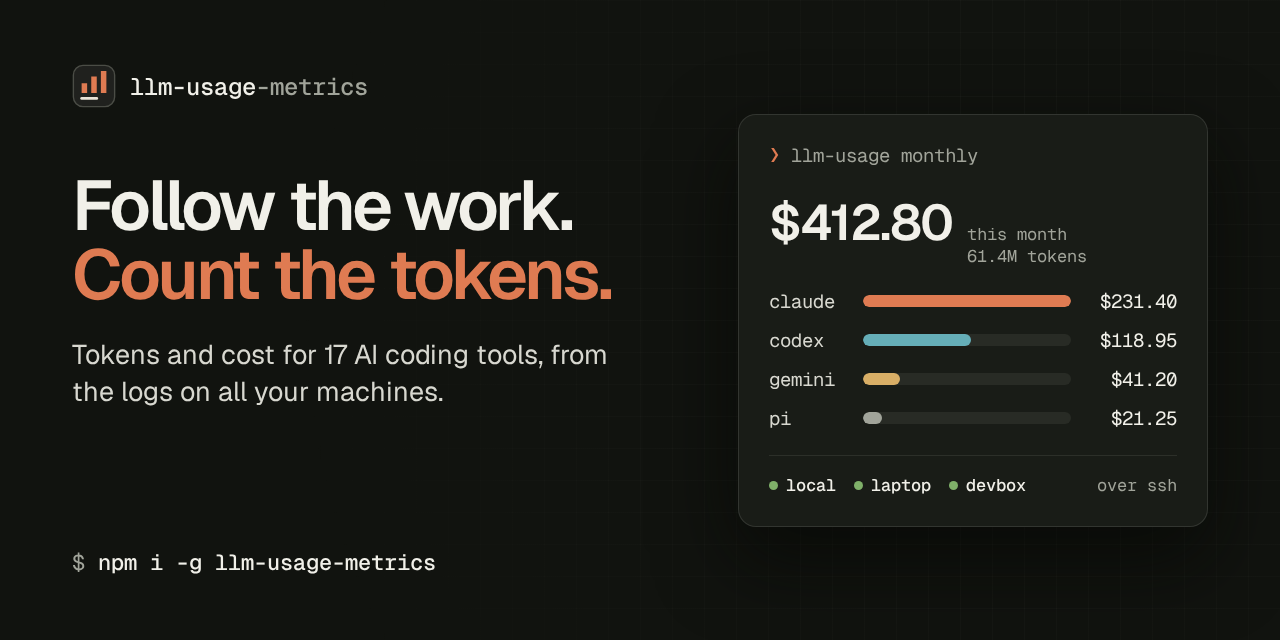
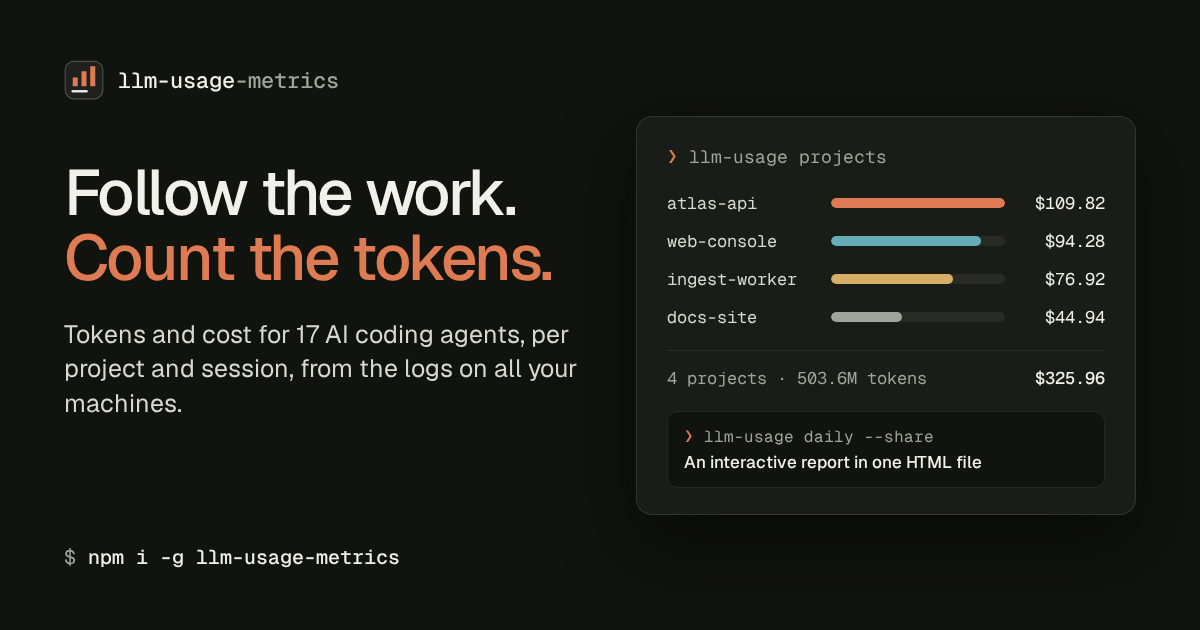
build(site): render og.png at 1200x630 from the social preview script
site/scripts/social-preview.mjs reads the source count from the built CLI's --help and screenshots the preview page with the shared Chromium launcher. Removes the unused site/public/screenshot.png.

diff --git a/site/social-preview/social-preview.html b/site/social-preview/social-preview.html
@@ -1,11 +1,12 @@
 <!doctype html>
-<!-- Source of site/public/og.png (1280x640, also the GitHub social preview). Render with any headless Chromium:
-     chrome --headless --window-size=1280,640 --screenshot=../public/og.png social-preview.html -->
+<!-- Source of site/public/og.png (1200x630, also the GitHub social preview). Render it with
+     `pnpm run build && node site/scripts/social-preview.mjs`, which fills in the source count
+     from the CLI. The numbers on the card come from the docs demo data, not from real usage. -->
 <html>
   <head>
     <meta charset="utf-8" />
     <link
-      href="https://fonts.googleapis.com/css2?family=Geist:wght@400;500;600;700&family=Geist+Mono:wght@400;500&display=swap"
+      href="https://fonts.googleapis.com/css2?family=Geist:wght@400;500;600&family=Geist+Mono:wght@400;500&display=swap"
       rel="stylesheet"
     />
     <style>
@@ -16,74 +17,61 @@
       }
       html,
       body {
-        width: 1280px;
-        height: 640px;
+        width: 1200px;
+        height: 630px;
       }
       body {
         background: #11130f;
         color: #f1f0e9;
         font-family: Geist, sans-serif;
         display: grid;
-        grid-template-columns: 1fr 470px;
-        gap: 48px;
-        padding: 64px 72px;
-        position: relative;
+        grid-template-columns: 1fr 500px;
+        gap: 44px;
+        padding: 60px 64px;
         overflow: hidden;
-      }
-      body::before {
-        content: '';
-        position: absolute;
-        inset: 0;
-        background-image:
-          linear-gradient(rgba(241, 240, 233, 0.035) 1px, transparent 1px),
-          linear-gradient(90deg, rgba(241, 240, 233, 0.035) 1px, transparent 1px);
-        background-size: 32px 32px;
-        mask-image: radial-gradient(circle at 78% 50%, black, transparent 70%);
       }
       .copy {
         display: flex;
         flex-direction: column;
-        position: relative;
       }
       .brand {
         display: flex;
         align-items: center;
         gap: 14px;
-        font-family: 'Geist Mono';
-        font-size: 24px;
+        font-family: 'Geist Mono', monospace;
+        font-size: 22px;
         font-weight: 500;
       }
       .brand img {
-        width: 44px;
-        height: 44px;
+        width: 40px;
+        height: 40px;
       }
       .brand span {
         color: #a1a49a;
       }
       h1 {
-        margin-top: 64px;
-        font-size: 70px;
-        line-height: 0.98;
-        white-space: nowrap;
-        letter-spacing: -0.045em;
-        font-weight: 600;
+        margin-top: 60px;
+        font-size: 64px;
+        line-height: 1.02;
+        letter-spacing: -0.04em;
+        font-weight: 500;
       }
       h1 em {
         font-style: normal;
         color: #df7b52;
         display: block;
       }
-      p.sub {
-        margin-top: 28px;
-        font-size: 27px;
-        line-height: 1.35;
+      .sub {
+        margin-top: 26px;
+        font-size: 25px;
+        line-height: 1.38;
         color: #d8d8d0;
-        max-width: 560px;
+        max-width: 540px;
       }
       .install {
         margin-top: auto;
-        font-family: 'Geist Mono';
-        font-size: 22px;
+        font-family: 'Geist Mono', monospace;
+        font-size: 20px;
         color: #a1a49a;
       }
       .install b {
@@ -91,65 +79,47 @@
         font-weight: 500;
       }
       .card {
-        position: relative;
         align-self: center;
         background: #191c17;
         border: 1px solid rgba(241, 240, 233, 0.12);
-        border-radius: 18px;
-        padding: 28px 30px 30px;
-        font-family: 'Geist Mono';
-        box-shadow: 0 30px 80px rgba(5, 7, 4, 0.7);
+        border-radius: 16px;
+        padding: 28px 30px 26px;
+        font-family: 'Geist Mono', monospace;
+        box-shadow: 0 28px 70px rgba(5, 7, 4, 0.7);
       }
       .cmd {
-        font-size: 19px;
+        font-size: 18px;
         color: #a1a49a;
       }
       .cmd span {
         color: #df7b52;
       }
-      .total {
-        margin-top: 22px;
-        display: flex;
-        align-items: baseline;
-        gap: 14px;
-      }
-      .total strong {
-        font-family: Geist;
-        font-size: 50px;
-        font-weight: 600;
-        letter-spacing: -0.03em;
-      }
-      .total small {
-        white-space: nowrap;
-        font-size: 17px;
-        color: #a1a49a;
-      }
       .rows {
-        margin-top: 22px;
+        margin-top: 24px;
         display: grid;
-        gap: 14px;
+        gap: 16px;
       }
       .row {
         display: grid;
-        grid-template-columns: 80px 1fr 92px;
+        grid-template-columns: 150px 1fr 86px;
         align-items: center;
         gap: 14px;
-        font-size: 19px;
+        font-size: 17px;
       }
-      .row .name {
+      .name {
         color: #d8d8d0;
       }
       .bar {
-        height: 12px;
-        border-radius: 6px;
+        height: 10px;
+        border-radius: 5px;
         background: rgba(241, 240, 233, 0.07);
         overflow: hidden;
       }
       .bar i {
         display: block;
         height: 100%;
+        border-radius: 5px;
         background: #df7b52;
-        border-radius: 6px;
       }
       .row:nth-child(2) .bar i {
         background: #65aeb8;
@@ -160,32 +130,41 @@
       .row:nth-child(4) .bar i {
         background: #a1a49a;
       }
-      .row .cost {
+      .cost {
         text-align: right;
-        color: #f1f0e9;
       }
-      .machines {
-        margin-top: 24px;
-        padding-top: 18px;
+      .total {
+        margin-top: 22px;
+        padding-top: 16px;
         border-top: 1px solid rgba(241, 240, 233, 0.09);
+        display: flex;
+        justify-content: space-between;
         font-size: 17px;
         color: #a1a49a;
-        display: flex;
-        gap: 18px;
-        white-space: nowrap;
       }
-      .machines b {
+      .total b {
         color: #f1f0e9;
         font-weight: 500;
       }
-      .dot {
-        display: inline-block;
-        width: 9px;
-        height: 9px;
-        border-radius: 50%;
-        background: #7fb069;
-        margin-right: 8px;
-        vertical-align: 1px;
+      .share {
+        margin-top: 22px;
+        padding: 14px 16px;
+        border-radius: 10px;
+        background: #11130f;
+        border: 1px solid rgba(241, 240, 233, 0.09);
+        font-size: 16px;
+        color: #a1a49a;
+      }
+      .share span {
+        color: #df7b52;
+      }
+      .share b {
+        display: block;
+        margin-top: 4px;
+        font-family: Geist, sans-serif;
+        font-size: 17px;
+        font-weight: 500;
+        color: #f1f0e9;
       }
     </style>
   </head>
@@ -197,38 +176,37 @@
         >
       </div>
       <h1>Follow the work.<em>Count the tokens.</em></h1>
-      <p class="sub">Tokens and cost for 17 AI coding tools, from the logs on all your machines.</p>
+      <p class="sub">
+        Tokens and cost for <span data-source-count>17</span> AI coding agents, per project and
+        session, from the logs on all your machines.
+      </p>
       <p class="install">$ <b>npm i -g llm-usage-metrics</b></p>
     </div>
     <div class="card">
-      <p class="cmd"><span>❯</span> llm-usage monthly</p>
-      <div class="total">
-        <strong>$412.80</strong><small>this month<br />61.4M tokens</small>
-      </div>
+      <p class="cmd"><span>❯</span> llm-usage projects</p>
       <div class="rows">
         <div class="row">
-          <span class="name">claude</span><span class="bar"><i style="width: 100%"></i></span
-          ><span class="cost">$231.40</span>
+          <span class="name">atlas-api</span><span class="bar"><i style="width: 100%"></i></span
+          ><span class="cost">$109.82</span>
         </div>
         <div class="row">
-          <span class="name">codex</span><span class="bar"><i style="width: 52%"></i></span
-          ><span class="cost">$118.95</span>
+          <span class="name">web-console</span><span class="bar"><i style="width: 86%"></i></span
+          ><span class="cost">$94.28</span>
         </div>
         <div class="row">
-          <span class="name">gemini</span><span class="bar"><i style="width: 18%"></i></span
-          ><span class="cost">$41.20</span>
+          <span class="name">ingest-worker</span><span class="bar"><i style="width: 70%"></i></span
+          ><span class="cost">$76.92</span>
         </div>
         <div class="row">
-          <span class="name">pi</span><span class="bar"><i style="width: 9%"></i></span
-          ><span class="cost">$21.25</span>
+          <span class="name">docs-site</span><span class="bar"><i style="width: 41%"></i></span
+          ><span class="cost">$44.94</span>
         </div>
       </div>
-      <div class="machines">
-        <span><i class="dot"></i><b>local</b></span
-        ><span><i class="dot"></i><b>laptop</b></span
-        ><span><i class="dot"></i><b>devbox</b></span
-        ><span style="margin-left: auto">over ssh</span>
-      </div>
+      <p class="total"><span>4 projects · 503.6M tokens</span><b>$325.96</b></p>
+      <p class="share">
+        <span>❯</span> llm-usage daily --share
+        <b>An interactive report in one HTML file</b>
+      </p>
     </div>
   </body>
 </html>
